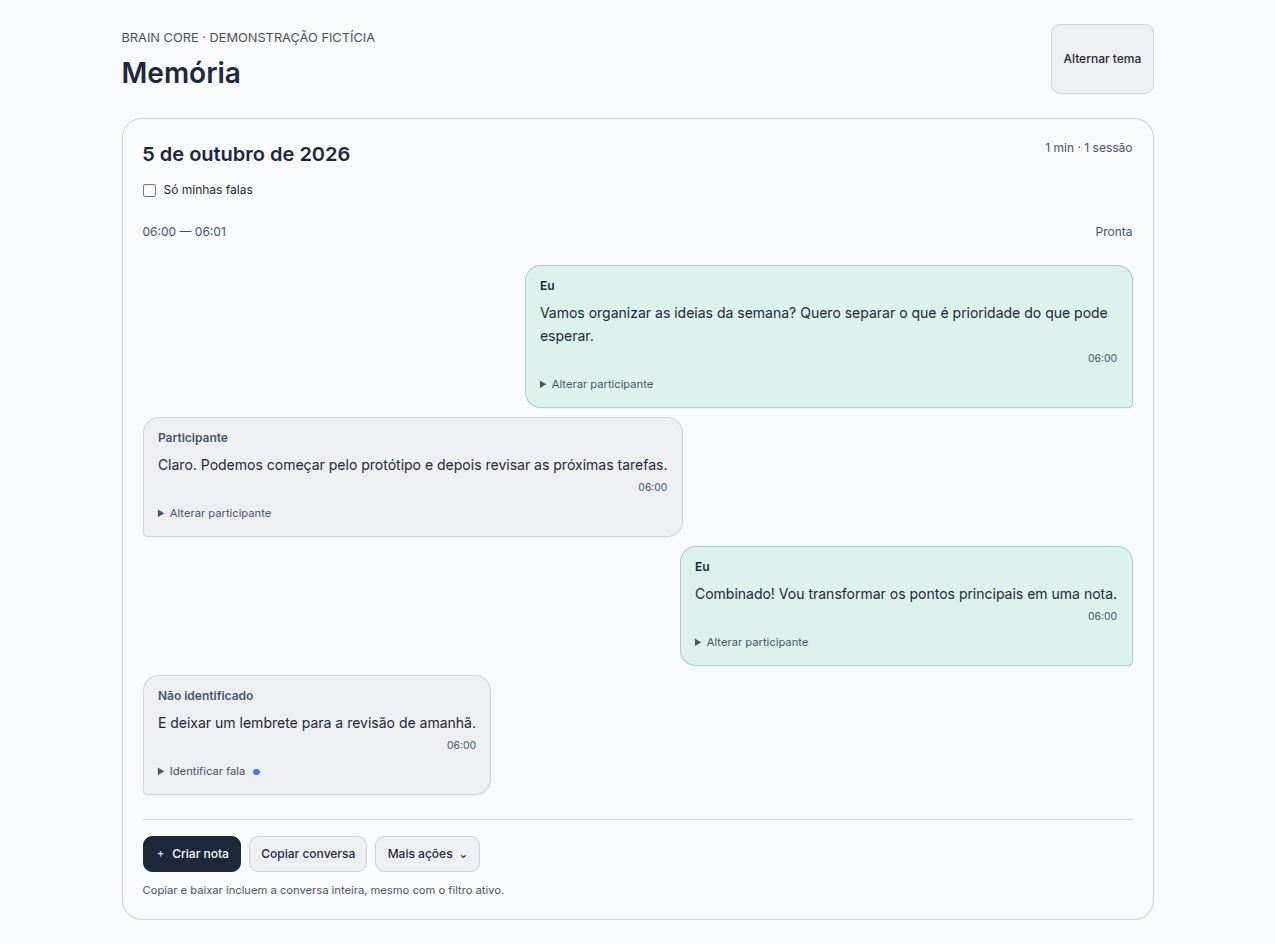
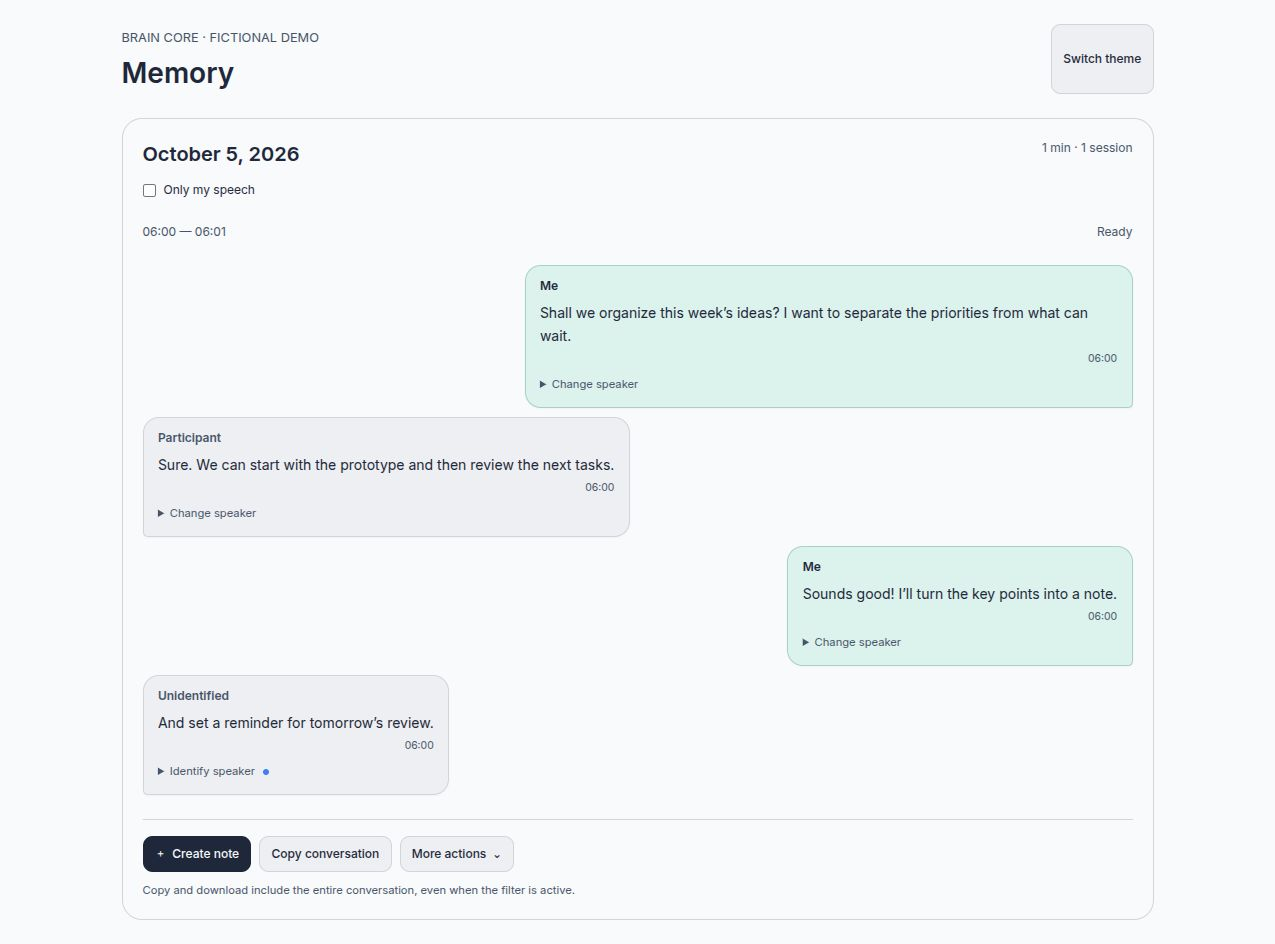
Present the README Memory screenshot in English

diff --git a/README.md b/README.md
@@ -14,7 +14,7 @@ These screenshots use fictional content.
 
 ![Brain Core dashboard with fictional notes and pages](docs/images/dashboard-demo.png)
 
-![Brain Core Memory conversation with fictional transcripts and compact chat bubbles](docs/images/timeline-memory-demo.jpg)
+![Brain Core Memory conversation preview in English with fictional transcripts and compact chat bubbles](docs/images/timeline-memory-demo.jpg)
 
 **Built with:** React 19 · TypeScript · Vite · Tailwind CSS · Tiptap · tldraw ·
 Node.js · Express · Socket.IO · PostgreSQL · Docker
